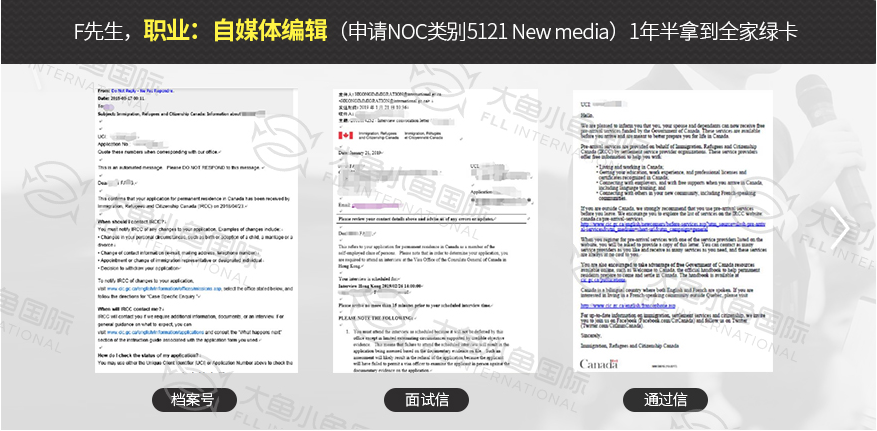
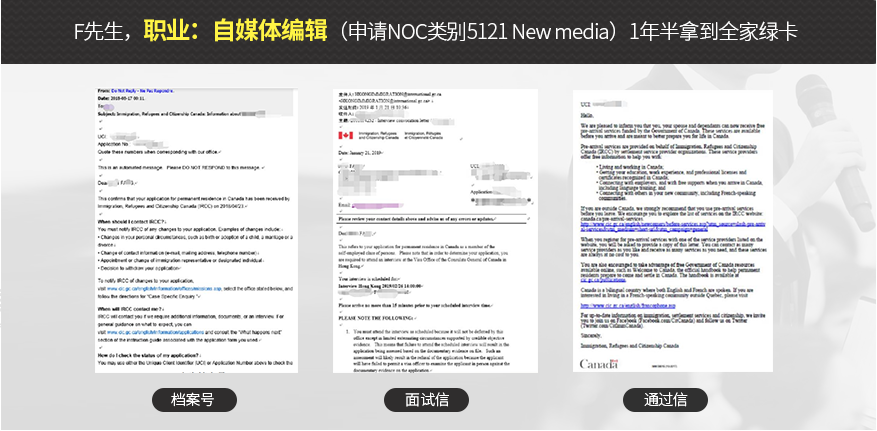
20190511

diff --git a/index.html b/index.html
@@ -29,7 +29,7 @@
         <li><a href="http://www.dayuxiaoyu.com" >首页</a></li>
         <li><a href="http://www.dayuxiaoyu.com/zt/eb1" >美国</a></li>
         <li><a href="http://www.dayuxiaoyu.com/zt/german-immigrants/" >德国</a></li>
-        <li><a href="https://www.chengzijianzhan.com/tetris/page/1629151676087308/" >日本</a></li>
+        <li><a href="http://www.dayuxiaoyu.com/zt/wnat" >阿努瓦图</a></li>
         <li><a href="http://www.dayuxiaoyu.com/index/planInfo?id=13" >新加坡</a></li>
         <li><a href="http://www.dayuxiaoyu.com/zt/dibai" >迪拜</a></li>
         <li><a href="http://www.dayuxiaoyu.com/zt/greece" >希腊</a></li>
@@ -221,12 +221,13 @@
 <!-- 赠送资料 -->
 <div class="row-material">
   <div class="wrap">
+      <h3>免费领取加拿大移民资料</h3>
       <form class="form-inline">
         <div class="form-group row">
           <span class="col-xs-6"><input type="text"  id="inputName2" placeholder="您的姓名" name="name2" /></span>
           <span class="col-xs-6"><input type="text"  id="inputTel2" placeholder="您的电话" name="tel2" /></span>
         </div>
-        <button type="submit" class="btn btn-danger">提交报名</button>
+        <button type="submit" class="btn btn-danger">提交领取</button>
       </form>
   </div>
 </div>
@@ -240,7 +241,37 @@
     </div>
     <div class="row">
       <div class="col1 col-xs-12 col-md-12">
-        <img src="img/case/img_01.png" alt="">
+        <!-- carousel区 -->
+        <div id="carousel-example-generic" class="carousel slide" data-ride="carousel">
+          <!-- Indicators -->
+          <ol class="carousel-indicators">
+              <li data-target="#carousel-example-generic" data-slide-to="0" class="active"></li>
+              <li data-target="#carousel-example-generic" data-slide-to="1"></li>
+              <li data-target="#carousel-example-generic" data-slide-to="2"></li>
+          </ol>
+        
+          <!-- Wrapper for slides -->
+          <div class="carousel-inner" role="listbox">
+            <div class="item active">
+              <img src="img/case/img_01.png" alt="" />
+            </div>
+            <div class="item">
+              <img src="img/case/img_02.png" alt="" />
+            </div>
+            <div class="item">
+              <img src="img/case/img_03.png" alt="" />
+            </div>
+          </div>
+          <!-- Controls -->
+          <a class="left carousel-control" href="#carousel-example-generic" role="button" data-slide="prev">
+            <span class="glyphicon glyphicon-menu-left" aria-hidden="true"></span>
+            <span class="sr-only">Previous</span>
+          </a>
+          <a class="right carousel-control" href="#carousel-example-generic" role="button" data-slide="next">
+            <span class="glyphicon glyphicon-menu-right" aria-hidden="true"></span>
+            <span class="sr-only">Next</span>
+          </a>
+        </div>
       </div>
     </div>
   </div>

diff --git a/css/index.css b/css/index.css
@@ -226,7 +226,7 @@ header img{
   font-weight: 600;
   padding: 20px 0 25px 0;
   margin: 0px;
-  color: #fff;
+  color: #333;
 }
 .row-material form {
   text-align: center;
@@ -283,7 +283,10 @@ header img{
 .row-case .row>div img{
   max-width: 100%;
 }
-
+.row-case .glyphicon{
+  top: 50%;
+  font-size: 20px;
+}
 footer {
   text-align: center;
   font-size: 12px;
@@ -554,9 +557,7 @@ footer .cp2{
     margin-right: 5px;
   }
   
-  .row-material {
-    padding: 67px 0;
-  }
+
   .row-material form {
     text-align: center;
   }
@@ -598,6 +599,15 @@ footer .cp2{
     margin-bottom: 15px;
     height: 49px;
     line-height: 49px;
+  }
+  .row-case .wrap{
+    width: 876px;
+  }
+  .row-case .carousel-indicators{
+    bottom: -10px;
+  }
+  .row-case .glyphicon{
+    font-size: 40px;
   }
   .row-case .row{
     text-align: center;
